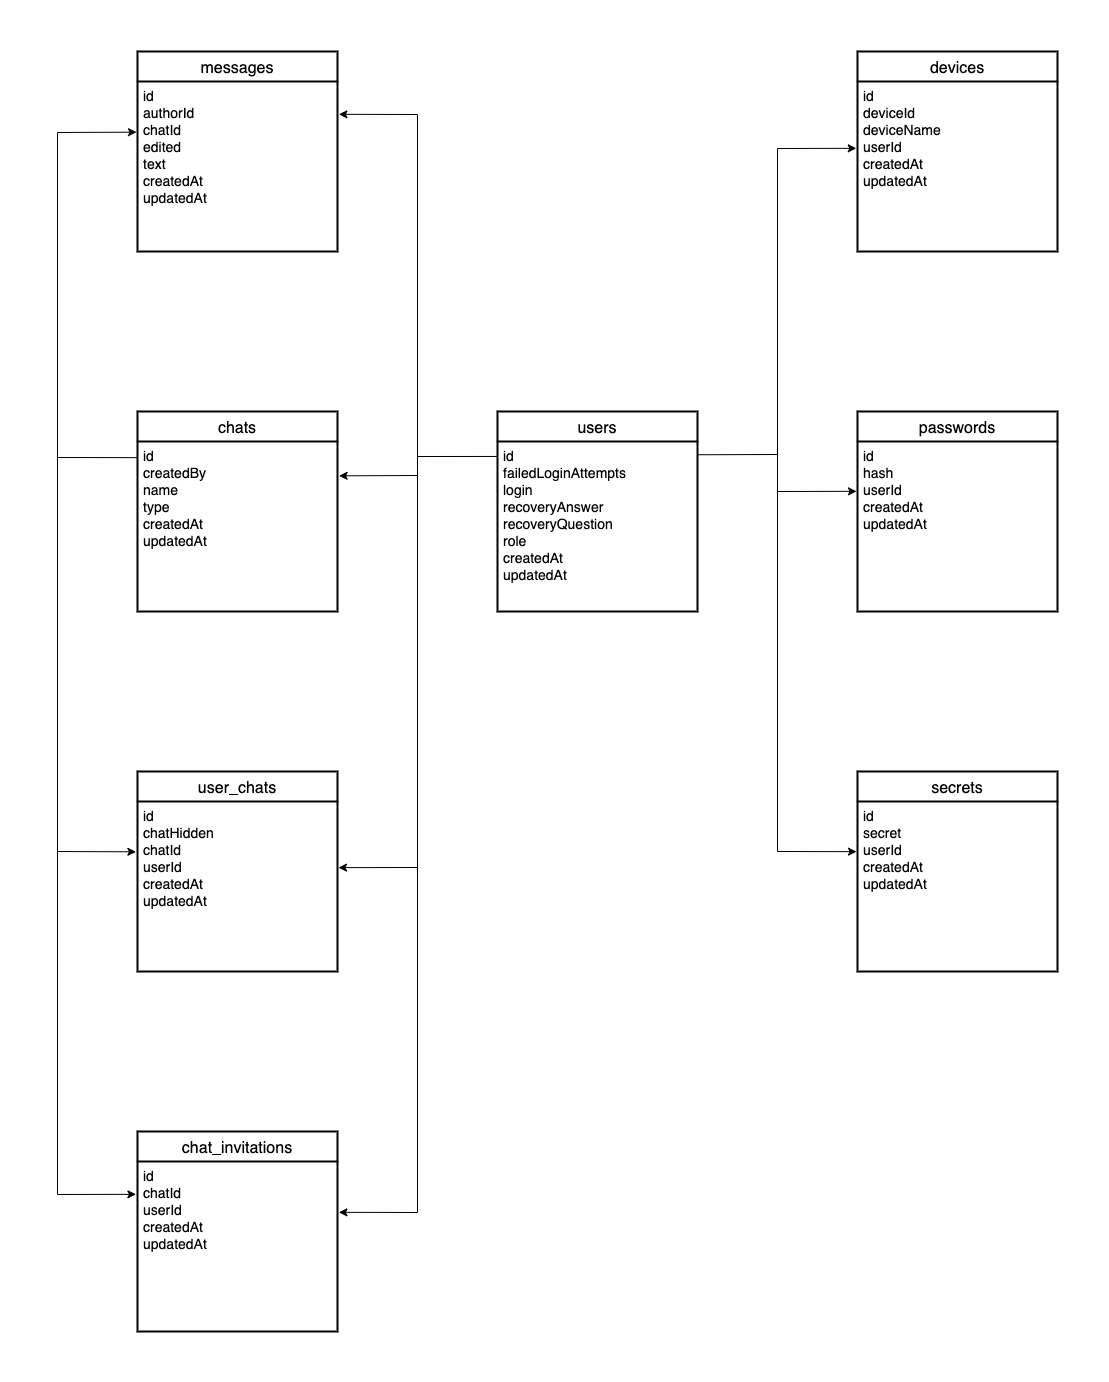
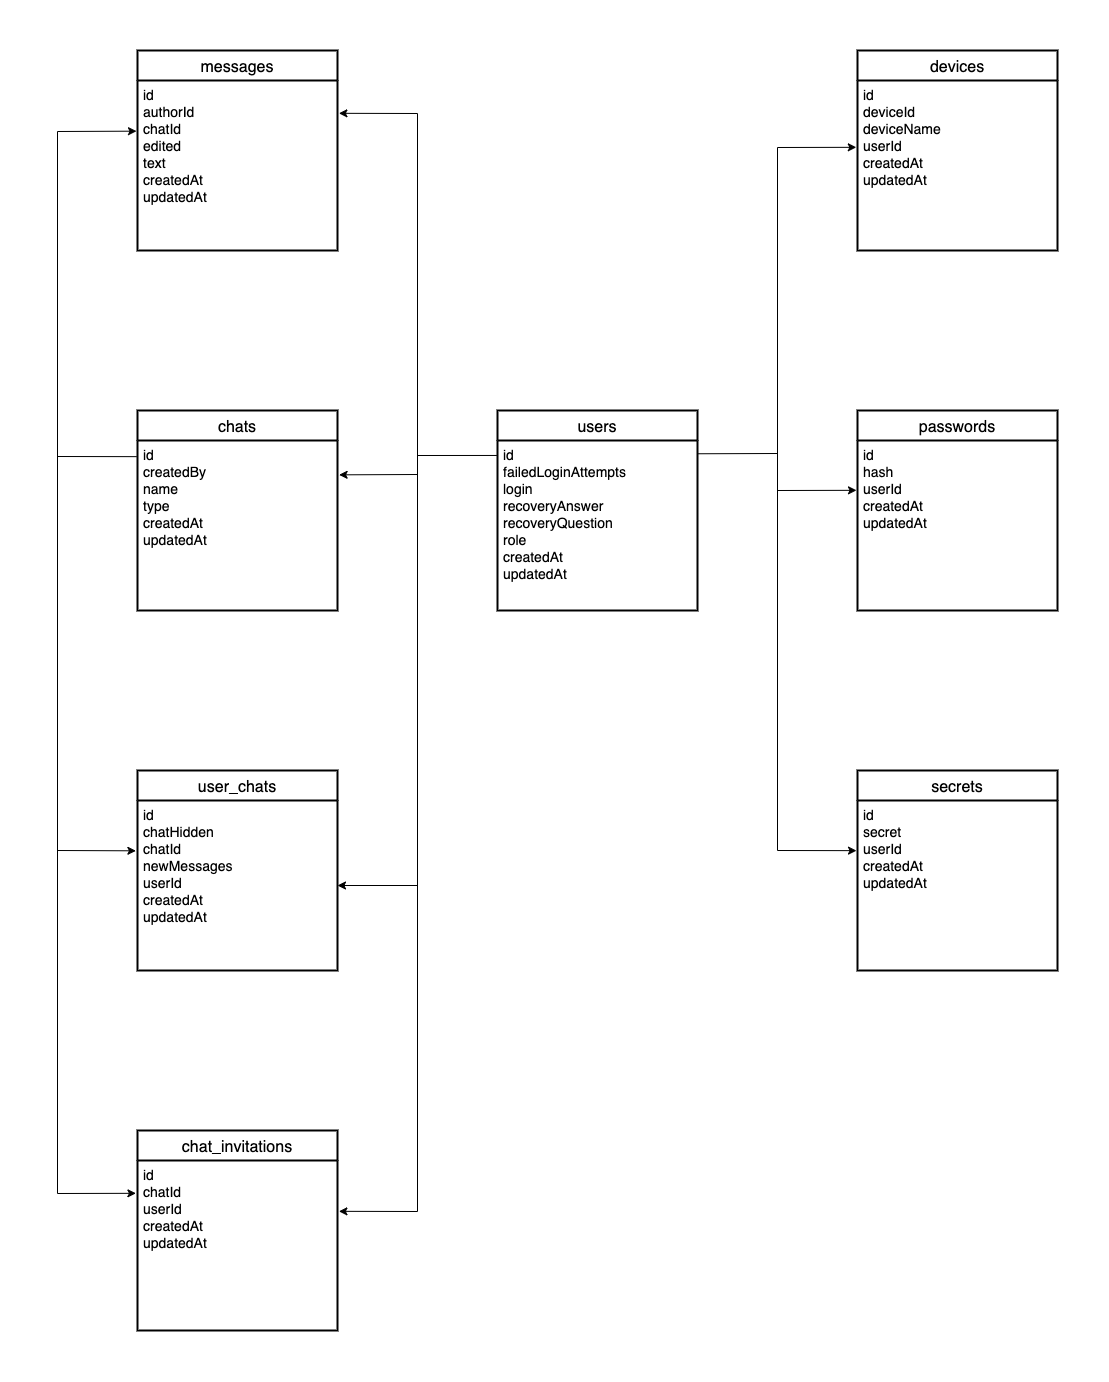
Update UserChats model

diff --git a/database/migrations/20221125122350-update-user-chats-table.js b/database/migrations/20221125122350-update-user-chats-table.js
@@ -1,0 +1,22 @@
+const COLUMN_NAME = 'newMessages';
+const TABLE_NAME = 'user_chats';
+
+/** @type { import('sequelize-cli').Migration } */
+module.exports = {
+  async down(queryInterface) {
+    return queryInterface.removeColumn(
+      TABLE_NAME,
+      COLUMN_NAME,
+    );
+  },
+  async up(queryInterface, Sequelize) {
+    return queryInterface.addColumn(
+      TABLE_NAME,
+      COLUMN_NAME,
+      {
+        defaultValue: 0,
+        type: Sequelize.INTEGER,
+      },
+    );
+  },
+};

diff --git a/src/database/models/user-chats.model.ts b/src/database/models/user-chats.model.ts
@@ -26,6 +26,10 @@ export const createModel = (connection: Sequelize): ModelStatic<Model> => {
         },
         type: DataTypes.INTEGER,
       },
+      newMessages: {
+        defaultValue: 0,
+        type: DataTypes.INTEGER,
+      },
       userId: {
         onUpdate: 'CASCADE',
         onDelete: 'CASCADE',

diff --git a/src/types/database.ts b/src/types/database.ts
@@ -48,6 +48,7 @@ export interface User extends Base {
 export interface UserChat extends Base {
   chatHidden: boolean;
   chatId: number;
+  newMessages: number;
   userId: number;
 }
 

diff --git a/README.md b/README.md
@@ -30,7 +30,8 @@ All of the database changes should be done using migrations
 1. Update the graphical representation of the database
 2. Generate a new migration file and add all of the necessary changes
 3. Update the model or create model in the [src/database/models](./src/database/models) directory
-4. Run migration process manually or launch the project if migrations are applied automatically
+4. Update the type or create type in the [src/types/database.ts](./src/types/database.ts) file
+5. Run migration process manually or launch the project if migrations are applied automatically
 
 ### Migrations
 
